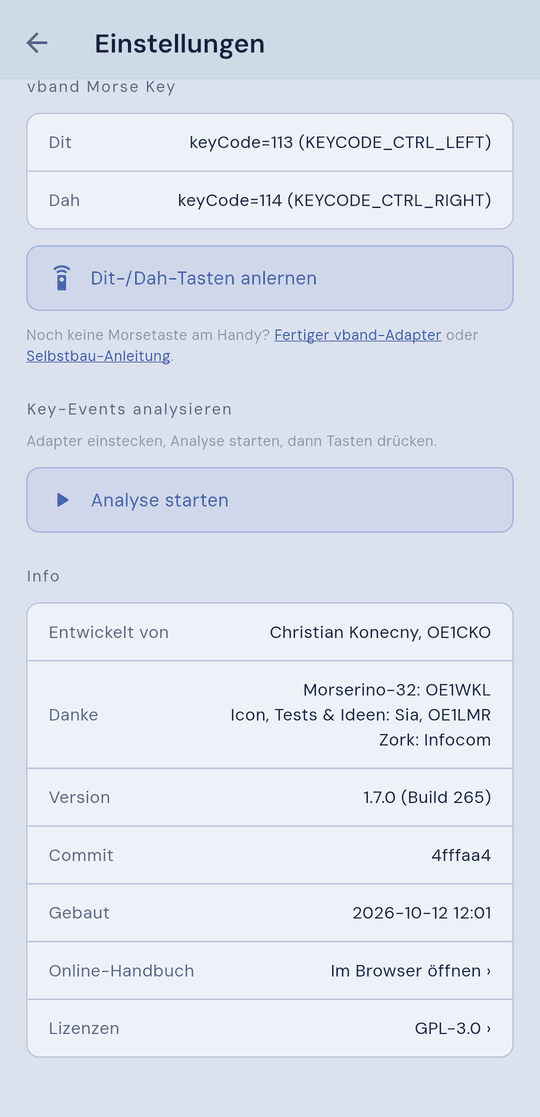
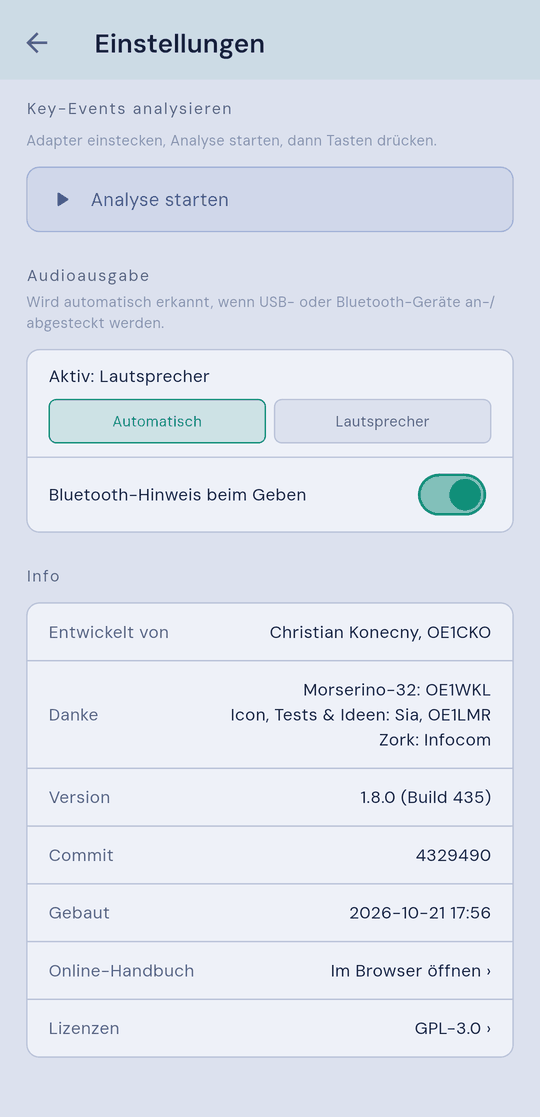
Manual: settings3 retaken from the release build 1.8.0 (DE+EN)
Info card shows version, build and commit of the release build.
STATUS notes it must be retaken once more from the final build.

diff --git a/docs/STATUS.md b/docs/STATUS.md
@@ -29,7 +29,7 @@ Done and checked on the test phone: launcher icons, README, landing page. Pendin
 
 ## Manual: pending for next release
 Retaken 2026-10-21 (debug build of beta 1.8.0, light theme, DE+EN, 12 weeks of statistics seeded, phone prefs restored afterwards; scripts: `manual/tools/capture/`): all screenshots except the ones below. Notes: `echo_result2` shows "new character unlocked" (caption changed), `qso` was answered via the text field, `char_practice` shows the character E, `adv_map` shows only the start room, `own_*` use the two Wikipedia texts the user added; new `hear_start_compact`, `hear_boost_sheet`, `settings_appearance` are placed in both manuals. Still to do:
-- `settings3` and the Info card: from the release build (version/commit).
+- `settings3` (Info card with version/commit) retaken 2026-10-21 from the release build 1.8.0 (Build 435, commit 4329490, installed over the debug build — same upload-key signature, data kept). Retake it once more from the final build: the final release gets a new build number and commit.
 - Check: `own_library` (EN) shows "2% heard" on the German text (progress from the screenshot run).
 
 ## v1.8.0 (beta1 published 2026-10-18, beta2 2026-10-21; version 1.8.0+9)
